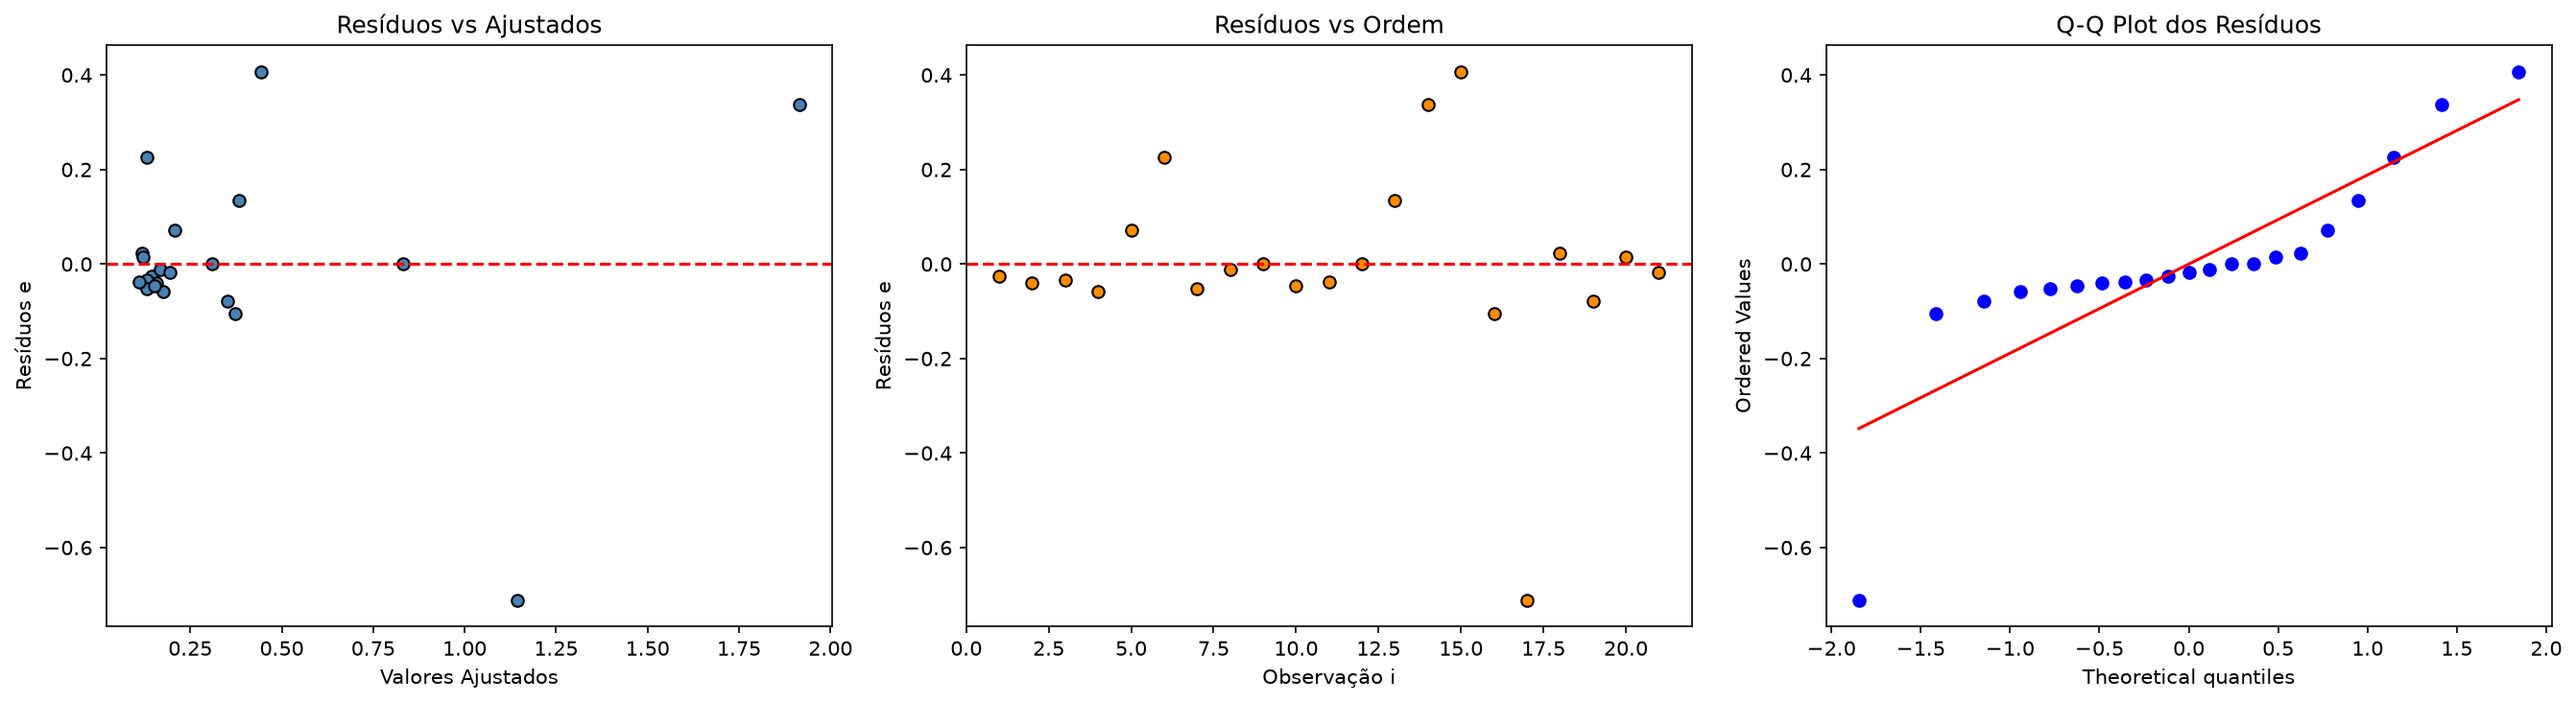
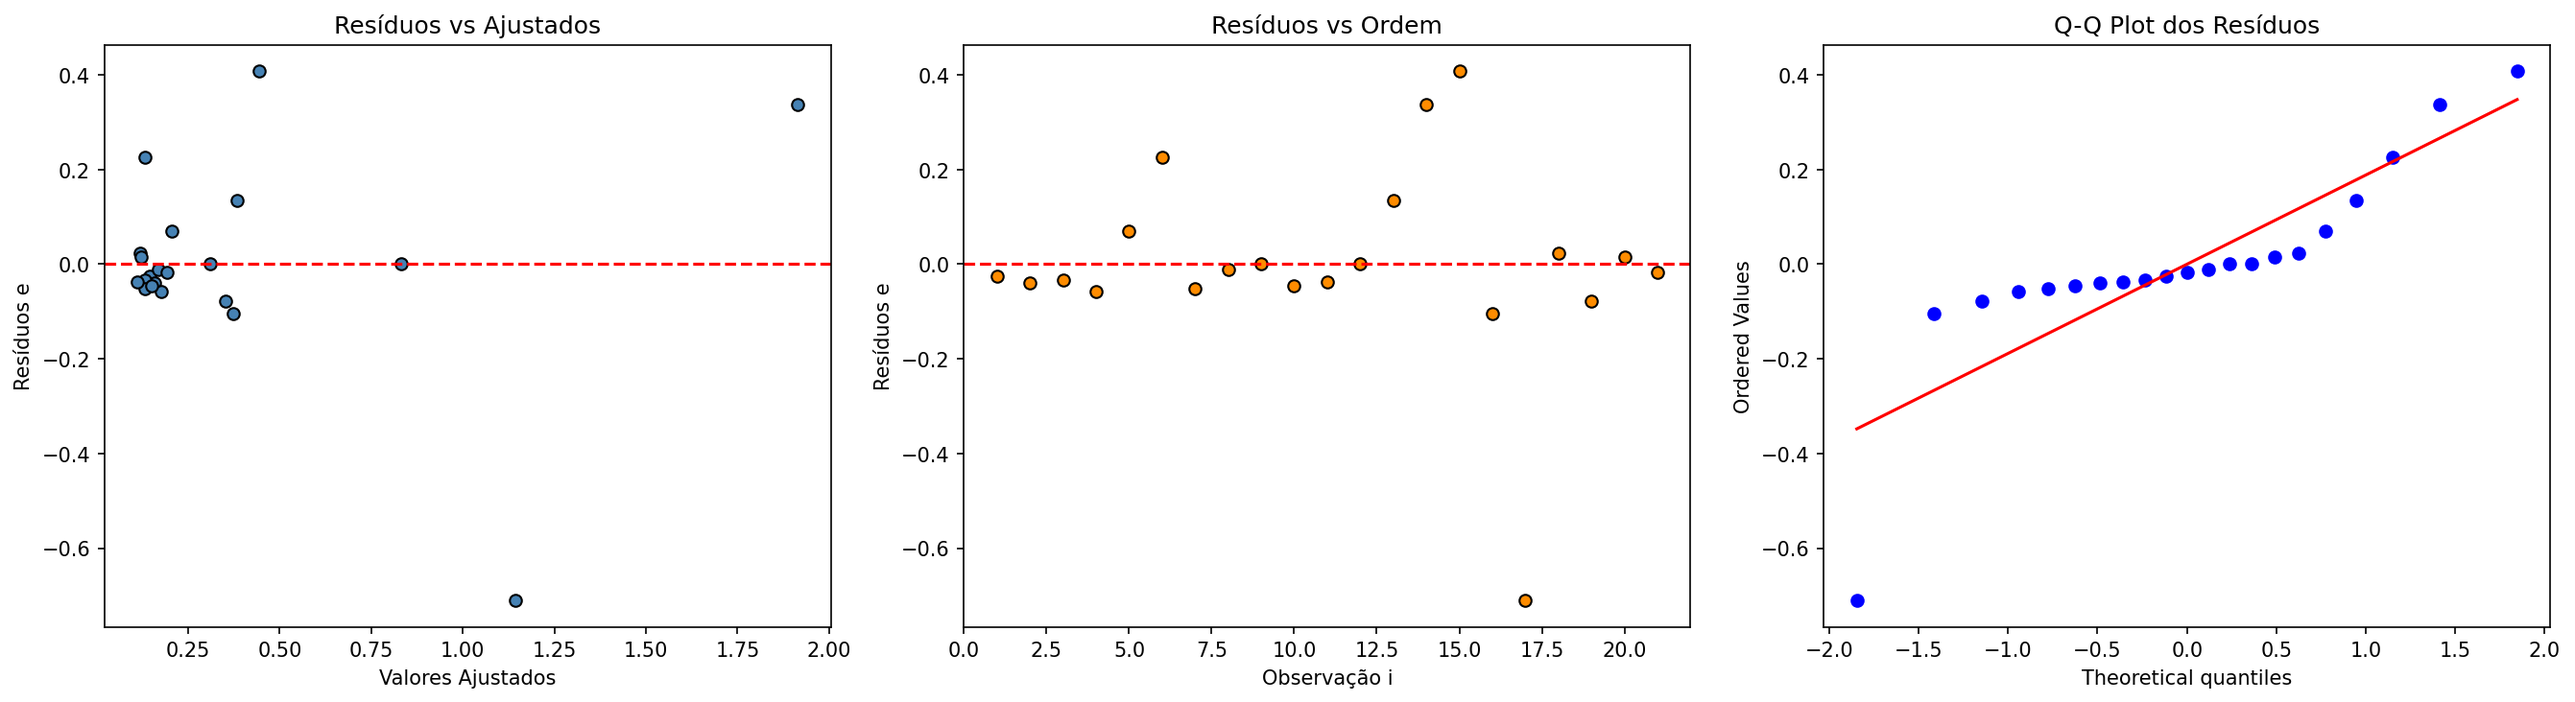
trabalho

diff --git a/problema2_radiacao.py b/problema2_radiacao.py
@@ -1,24 +1,15 @@
-"""
-Universidade de Fortaleza - UNIFOR
-Disciplina: Inteligência Artificial Computacional
-Problema 2 - Dose de radiação em inspeção de raios X (regressão linear múltipla)
-Implementação 100% manual com numpy (sem sklearn, sem pandas) - padrão da aula
-"""
 import numpy as np
 import matplotlib.pyplot as plt
 
-# ==================== LEITURA DOS DADOS (np.loadtxt, padrão aula) ====================
-# colunas: índice, Dose_de_Radiacao, mAmp, Tempo_de_Exposicao
 dados = np.loadtxt("dose_radiacao_expandido.csv", delimiter=",", skiprows=1,
                    usecols=(1, 2, 3))
 print("Dados de entrada (primeiras 5 linhas):\n", dados[:5])
 
-X = dados[:, [1, 2]]   # mAmp, Tempo_de_Exposicao
-y = dados[:, 0]        # Dose_de_Radiacao
+X = dados[:, [1, 2]] 
+y = dados[:, 0]        
 N = X.shape[0]
 print("Quantidade de observações:", N)
 
-# ==================== CLASSES (PADRÃO DA AULA) ====================
 class MRegression:
     """Regressão Linear Múltipla via pseudo-inversa de Moore-Penrose"""
     def __init__(self, X, y, intercepto=True):
@@ -61,7 +52,6 @@ class LinearRegression:
         print(f"Intercepto = {self.b0}")
         print(f"Coeficiente Angular = {self.b1}")
 
-# ==================== MÉTRICAS ====================
 def r2_score(y_true, y_pred):
     numerador = np.sum((y_true - y_pred) ** 2)
     denominador = np.sum((y_true - np.mean(y_true)) ** 2)
@@ -81,7 +71,6 @@ def rmse(y_true, y_pred):
 def mae(y_true, y_pred):
     return np.mean(np.abs(y_true - y_pred))
 
-# ==================== (a) MODELO COMPLETO ====================
 modelo = MRegression(X, y)
 modelo.fit()
 nomes = ['Intercepto', 'mAmp', 'Tempo_de_Exposicao']
@@ -89,20 +78,16 @@ print("\n(a) COEFICIENTES DO MODELO COMPLETO:")
 for nome, b in zip(nomes, modelo.beta):
     print(f"  {nome:20s} = {b:.6f}")
 
-# ==================== (b) PREVISÃO ====================
 x_novo = np.array([[15, 5]])
 print("\n(b) Previsão (15 mA, 5 min):", modelo.predict(x_novo)[0], "rad")
 
 y_pred = modelo.predict(X)
 
-# ==================== (c) R² ====================
 print("\n(c) R² =", r2_score(y, y_pred))
 
-# ==================== (d) R² AJUSTADO ====================
 print("(d) R² ajustado =", r2_ajustado(y, y_pred, p=2))
 
-# ==================== (e) MODELO ALTERNATIVO (só Corrente) ====================
-modelo_alt = LinearRegression(X[:, 0], y)   # mAmp é a coluna 0 de X
+modelo_alt = LinearRegression(X[:, 0], y)   
 modelo_alt.fit()
 y_pred_alt = modelo_alt.predict(X[:, 0])
 print("\n(e) MODELO ALTERNATIVO (só Corrente):")
@@ -110,7 +95,6 @@ modelo_alt.summary()
 print("  R² =", r2_score(y, y_pred_alt))
 print("  R² ajustado =", r2_ajustado(y, y_pred_alt, p=1))
 
-# ==================== (f) INTERCEPTO ZERO ====================
 modelo_zero = MRegression(X, y, intercepto=False)
 modelo_zero.fit()
 y_pred_zero = modelo_zero.predict(X)
@@ -119,16 +103,13 @@ print("  Coeficientes:", modelo_zero.beta)
 print("  R² =", r2_score(y, y_pred_zero), " RMSE =", rmse(y, y_pred_zero))
 print("  Modelo c/ intercepto: R² =", r2_score(y, y_pred), " RMSE =", rmse(y, y_pred))
 
-# ==================== (h) MÉTRICAS DE ERRO ====================
 print("\n(h) COMPARAÇÃO DE MÉTRICAS:")
 print(f"  {'Métrica':10s} {'Completo':>12s} {'Alt (corrente)':>15s}")
 for nome_m, f in [('MSE', mse), ('RMSE', rmse), ('MAE', mae)]:
     print(f"  {nome_m:10s} {f(y, y_pred):12.4f} {f(y, y_pred_alt):15.4f}")
 
-# ==================== GRÁFICOS ====================
 fig = plt.figure(figsize=(18, 6))
 
-# Superfície 3D (estilo da aula)
 ax1 = fig.add_subplot(1, 3, 1, projection='3d')
 ma, te = X[:, 0], X[:, 1]
 ax1.scatter(ma, te, y, c='red', s=8, alpha=0.4, label='Dados originais')
@@ -138,10 +119,10 @@ ma_grid, te_grid = np.meshgrid(
     np.linspace(min(te), max(te), 10))
 y_grid = modelo.beta[0] + modelo.beta[1]*ma_grid + modelo.beta[2]*te_grid
 ax1.plot_surface(ma_grid, te_grid, y_grid, alpha=0.4, color='cyan')
+ax1.grid(False)  
 ax1.set_xlabel('Corrente (mA)'); ax1.set_ylabel('Tempo (min)'); ax1.set_zlabel('Dose (rad)')
 ax1.set_title('Hiperplano de Regressão')
 
-# Resíduos vs Ajustados
 residuos = y - y_pred
 ax2 = fig.add_subplot(1, 3, 2)
 ax2.scatter(y_pred, residuos, color='steelblue', s=8, alpha=0.5)
@@ -149,7 +130,6 @@ ax2.axhline(0, color='red', linestyle='--')
 ax2.set_xlabel('Valores Ajustados'); ax2.set_ylabel('Resíduos e')
 ax2.set_title('Resíduos vs Ajustados')
 
-# Observado vs Previsto
 ax3 = fig.add_subplot(1, 3, 3)
 ax3.scatter(y, y_pred, color='darkgreen', s=8, alpha=0.5)
 lim = [0, max(y.max(), y_pred.max())*1.05]

diff --git a/problema1_arsenio.py b/problema1_arsenio.py
@@ -1,24 +1,15 @@
-"""
-Universidade de Fortaleza - UNIFOR
-Disciplina: Inteligência Artificial Computacional
-Problema 1 - Arsênio em unhas do pé (regressão linear múltipla)
-Implementação 100% manual com numpy (sem sklearn, sem pandas) - padrão da aula
-"""
 import numpy as np
 import matplotlib.pyplot as plt
 from scipy import stats
 
-# ==================== LEITURA DOS DADOS (np.loadtxt, padrão aula) ====================
-# Idade, Sexo, Uso_Beber, Uso_Cozinhar, Arsenio_Agua, Arsenio_Unhas
 dados = np.loadtxt("arsenio_dataset (1).csv", delimiter=",", skiprows=1)
 print("Dados de entrada:\n", dados)
 
-X = dados[:, [0, 2, 3, 4]]   # Idade, Uso_Beber, Uso_Cozinhar, Arsenio_Agua
-y = dados[:, 5]              # Arsenio_Unhas
+X = dados[:, [0, 2, 3, 4]]   
+y = dados[:, 5]              
 N = X.shape[0]
 print("Quantidade de observações:", N)
 
-# ==================== CLASSES (PADRÃO DA AULA) ====================
 class MRegression:
     """Regressão Linear Múltipla via pseudo-inversa de Moore-Penrose"""
     def __init__(self, X, y, intercepto=True):
@@ -61,7 +52,6 @@ class LinearRegression:
         print(f"Intercepto = {self.b0}")
         print(f"Coeficiente Angular = {self.b1}")
 
-# ==================== MÉTRICAS ====================
 def r2_score(y_true, y_pred):
     numerador = np.sum((y_true - y_pred) ** 2)
     denominador = np.sum((y_true - np.mean(y_true)) ** 2)
@@ -81,7 +71,6 @@ def rmse(y_true, y_pred):
 def mae(y_true, y_pred):
     return np.mean(np.abs(y_true - y_pred))
 
-# ==================== (a) MODELO COMPLETO ====================
 modelo = MRegression(X, y)
 modelo.fit()
 nomes = ['Intercepto', 'Idade', 'Uso_Beber', 'Uso_Cozinhar', 'Arsenio_Agua']
@@ -89,21 +78,17 @@ print("\n(a) COEFICIENTES DO MODELO COMPLETO:")
 for nome, b in zip(nomes, modelo.beta):
     print(f"  {nome:15s} = {b:.6f}")
 
-# ==================== (b) PREVISÃO ====================
 x_novo = np.array([[30, 5, 5, 0.135]])
 print("\n(b) Previsão (idade=30, beber=5, cozinhar=5, As água=0.135):",
       modelo.predict(x_novo)[0], "ppm")
 
 y_pred = modelo.predict(X)
 
-# ==================== (d) R² ====================
 print("\n(d) R² =", r2_score(y, y_pred))
 
-# ==================== (e) R² AJUSTADO ====================
 print("(e) R² ajustado =", r2_ajustado(y, y_pred, p=4))
 
-# ==================== (f) MODELO ALTERNATIVO (só arsênio na água) ====================
-modelo_alt = LinearRegression(X[:, 3], y)   # Arsenio_Agua é a coluna 3 de X
+modelo_alt = LinearRegression(X[:, 3], y)   
 modelo_alt.fit()
 y_pred_alt = modelo_alt.predict(X[:, 3])
 print("\n(f) MODELO ALTERNATIVO (só Arsênio na água):")
@@ -111,7 +96,6 @@ modelo_alt.summary()
 print("  R² =", r2_score(y, y_pred_alt))
 print("  R² ajustado =", r2_ajustado(y, y_pred_alt, p=1))
 
-# ------- Análise de resíduos: tabela y, ŷ, e (sem pandas) -------
 residuos = y - y_pred
 print("\nTABELA DE RESÍDUOS:")
 print(f"  {'Obs i':>6s} {'y observado':>12s} {'ŷ ajustado':>12s} {'e resíduo':>12s}")
@@ -119,12 +103,10 @@ print("  " + "-" * 44)
 for i in range(N):
     print(f"  {i+1:6d} {y[i]:12.6f} {y_pred[i]:12.6f} {residuos[i]:12.6f}")
 
-# salva a tabela em CSV sem pandas
 tabela = np.column_stack((np.arange(1, N+1), y, y_pred, residuos))
 np.savetxt("tabela_residuos_problema1.csv", tabela, delimiter=",",
            header="Observacao,y_observado,y_ajustado,residuo", comments="", fmt="%.6f")
 
-# ==================== (g) INTERCEPTO ZERO ====================
 modelo_zero = MRegression(X, y, intercepto=False)
 modelo_zero.fit()
 y_pred_zero = modelo_zero.predict(X)
@@ -133,13 +115,11 @@ print("  Coeficientes:", modelo_zero.beta)
 print("  R² =", r2_score(y, y_pred_zero), " RMSE =", rmse(y, y_pred_zero))
 print("  Modelo c/ intercepto: R² =", r2_score(y, y_pred), " RMSE =", rmse(y, y_pred))
 
-# ==================== (h) MÉTRICAS DE ERRO ====================
 print("\n(h) COMPARAÇÃO DE MÉTRICAS:")
 print(f"  {'Métrica':10s} {'Completo':>12s} {'Alt (água)':>12s}")
 for nome_m, f in [('MSE', mse), ('RMSE', rmse), ('MAE', mae)]:
     print(f"  {nome_m:10s} {f(y, y_pred):12.6f} {f(y, y_pred_alt):12.6f}")
 
-# ==================== GRÁFICOS DE RESÍDUOS ====================
 fig, axes = plt.subplots(1, 3, figsize=(18, 5))
 axes[0].scatter(y_pred, residuos, color='steelblue', edgecolor='k')
 axes[0].axhline(0, color='red', linestyle='--')
